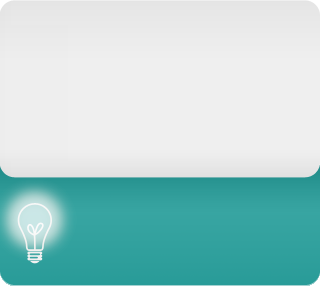
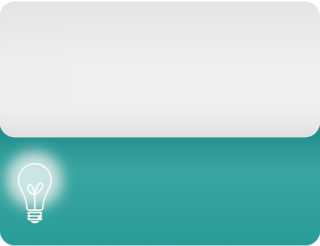
Alterando o layout principal da revista

Changed region(s): [[0.0, 0.5122, 1.0, 0.939], [0.9688, 0.9675, 1.0, 0.9959], [0.0, 0.9675, 0.0312, 0.9959]]

diff --git a/public/css/global.css b/public/css/global.css
@@ -99,7 +99,8 @@ ul li a { font-weight: normal; text-decoration: none; }
 #templatemo_header_wrapper {
 	width: 100%;
 	height: 82px;
-	background: url(/images/templatemo_header.png) repeat-x;
+	background-color: #0088dd;
+	/* background: url(/images/templatemo_header.png) repeat-x;*/
 }
 
 #templatemo_header {
@@ -124,6 +125,10 @@ ul li a { font-weight: normal; text-decoration: none; }
 	color: #ffffff;
 	font-weight: normal;
 	text-decoration: none;
+}
+
+#site_title a img{
+    margin-top: -10px;
 }
 
 #site_title h1 a:hover {
@@ -290,7 +295,10 @@ ul li a { font-weight: normal; text-decoration: none; }
 	left: 0;
 	width: 89px;
 	height: 59px;
-	background: url(/images/news_image_frame.png) no-repeat;
+        font-size: 15pt;
+        font-weight: bold;
+        text-align: center;
+	/* background: url(/images/news_image_frame.png) no-repeat; */
 }
 
 .newsbox p {
@@ -349,15 +357,16 @@ ul li a { font-weight: normal; text-decoration: none; }
 
 #testimonial_newsletter {
 	width: 260px;
-	height: 246px;
+	height: 206px;
 	padding: 20px 30px;
 	background: url(/images/testimonial_newsletter.png) no-repeat;
 }
 
 #testimonial {
 	width: 260px;
-	height: 137px;
+	height: 87px;
 	margin-bottom: 50px;
+        margin-top: 20px;
 }
 
 #testimonial h2 {
@@ -380,6 +389,31 @@ ul li a { font-weight: normal; text-decoration: none; }
 	margin-left: 20px;
 }
 
+#buscar_item{
+    height: 20px;
+    width: 160px;
+    color: #000000;
+    font-size: 12px;
+    padding: 2px 5px;
+    font-variant: normal;
+    line-height: normal;
+    border: 1px solid #dadada;
+    background: #ffffff;
+}
+
+#busca_subscribe{
+    margin-bottom: 5px;
+    cursor: pointer;
+    font-size: 14px;
+    font-weight: bold;
+    vertical-align: bottom;
+    white-space: pre;
+    outline: none;
+    color:#8080ff;
+    border: none;
+    background: none;
+}
+
 #newsletter {
 	padding-left: 50px;
 }
@@ -394,7 +428,7 @@ ul li a { font-weight: normal; text-decoration: none; }
 #newsletter_email {
 	height: 13px;
 	width: 110px;
-	color: #fff;
+	color: #000000;
 	font-size: 12px;
 	padding: 2px 5px;
 	font-variant: normal;
